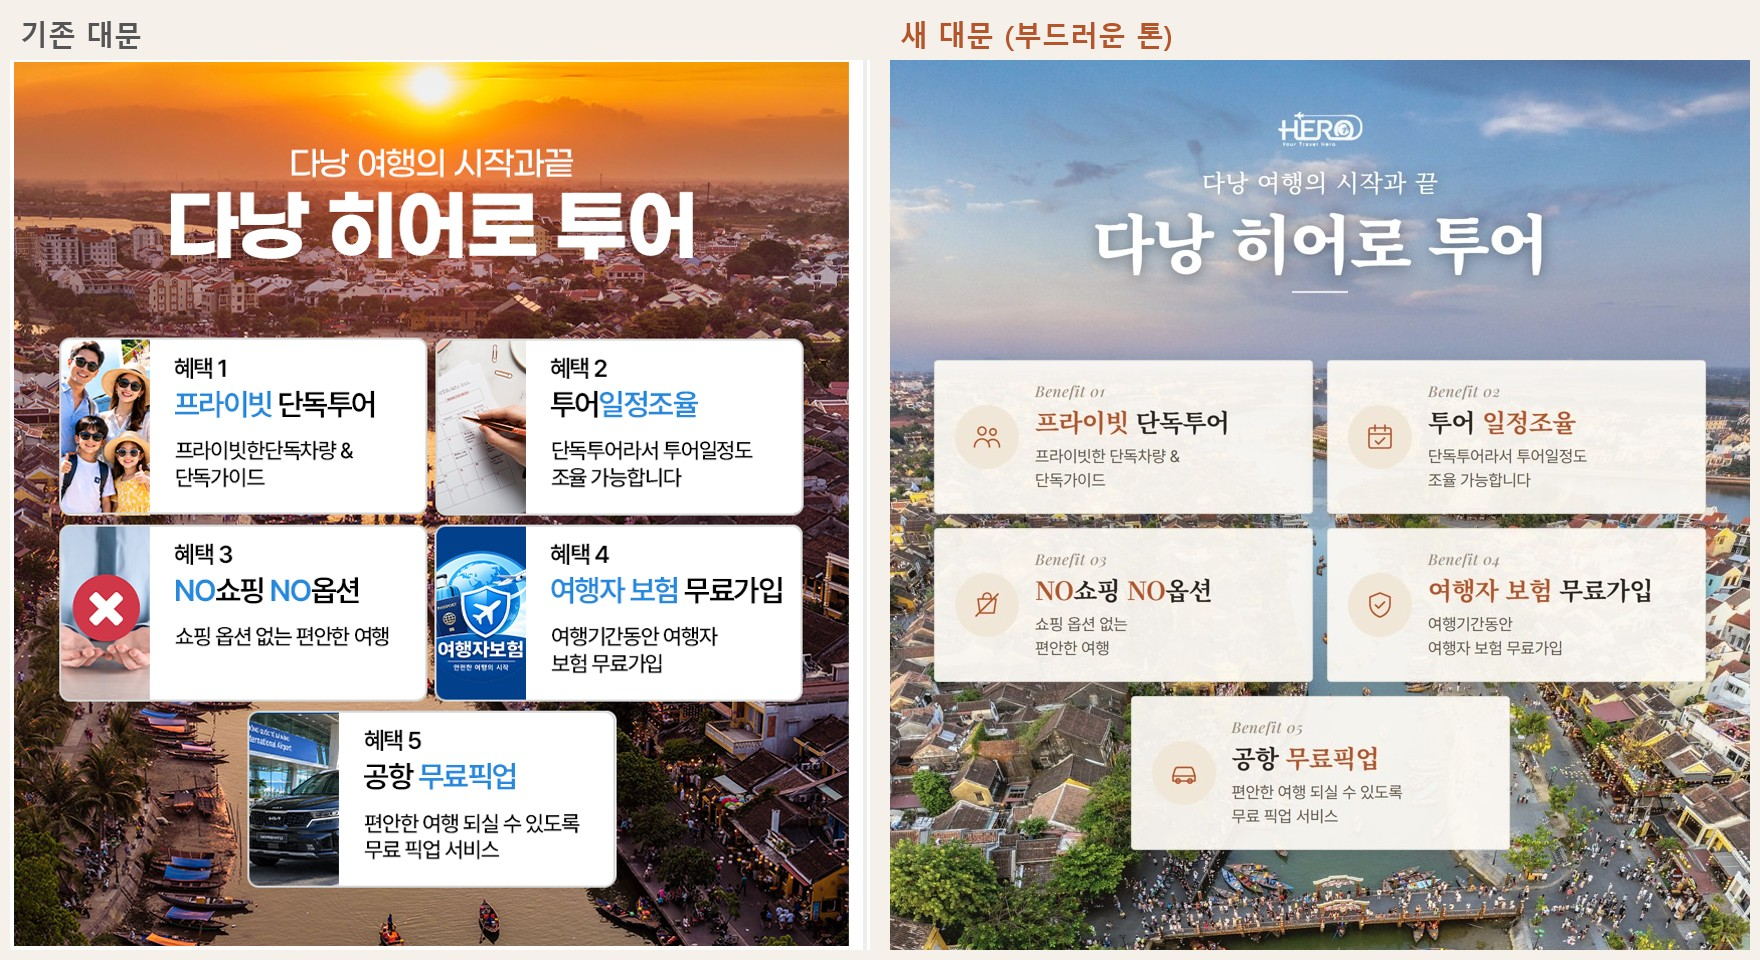
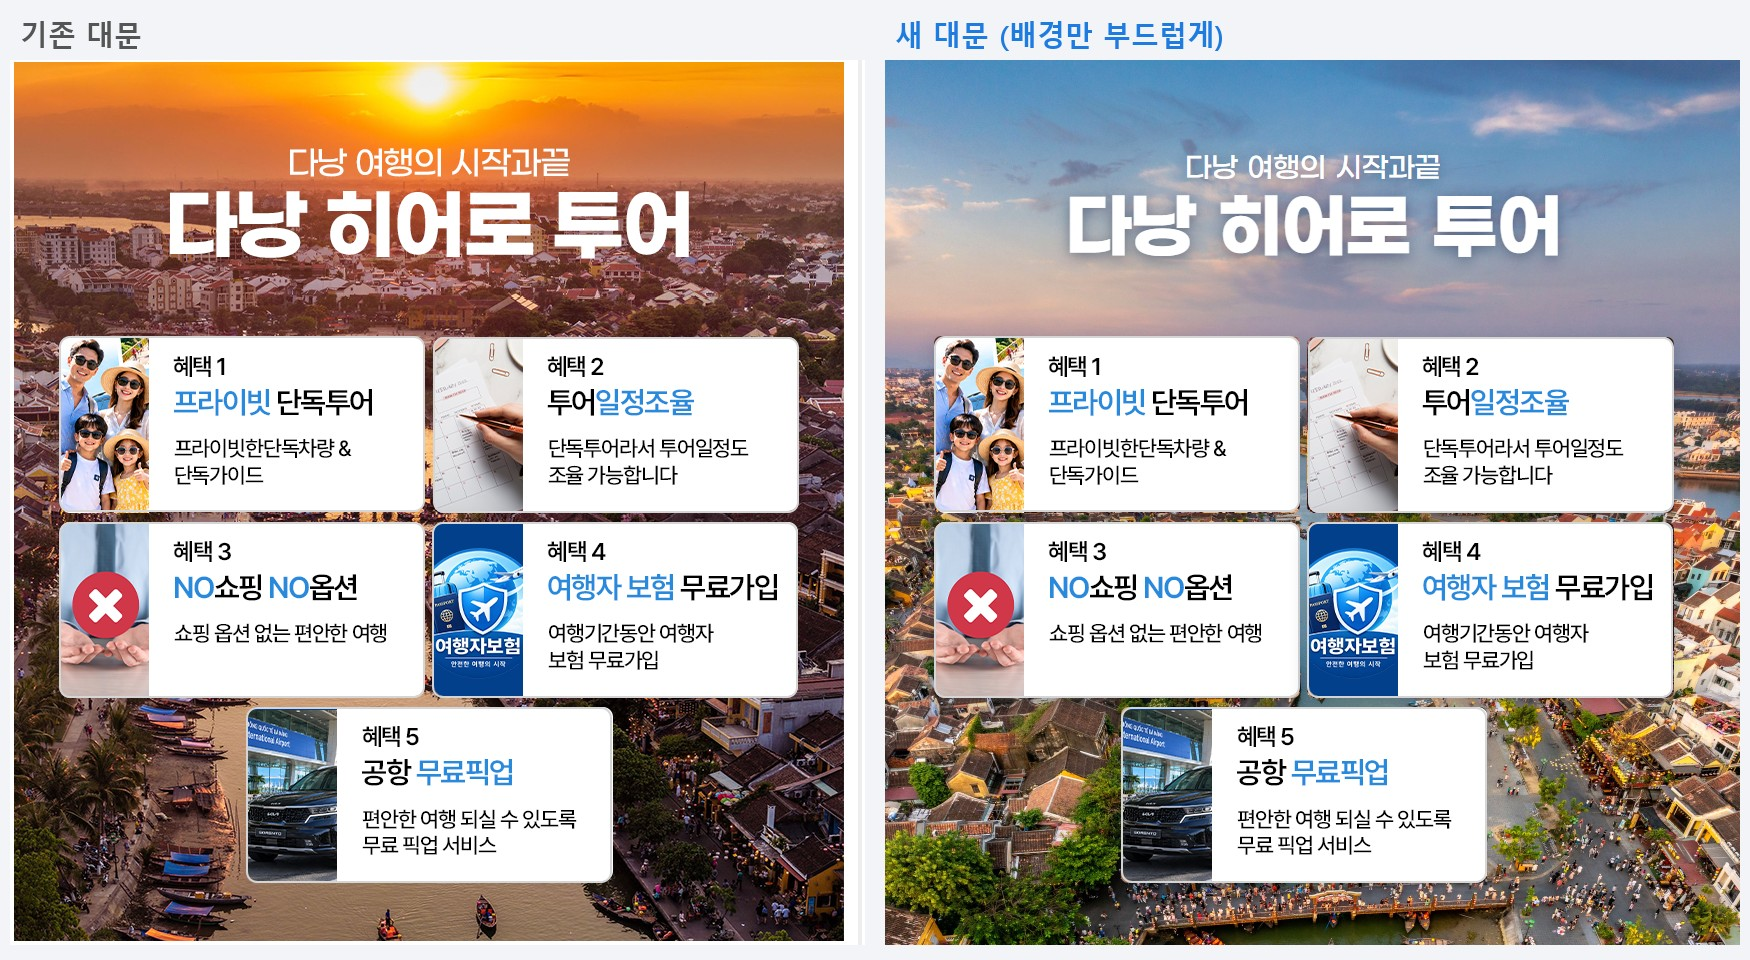
카페 대문: 기존 카페 메인 스타일 유지, 붉은 노을 배경만 은은한 호이안 항공뷰로 교체

diff --git a/gate/index.html b/gate/index.html
@@ -1,40 +1,23 @@
 <!doctype html><html lang="ko"><head><meta charset="utf-8"><meta name="viewport" content="width=860"><meta name="robots" content="noindex,nofollow"><title>히어로투어 카페 대문</title>
-<link rel="stylesheet" href="https://cdn.jsdelivr.net/gh/orioncactus/pretendard@v1.3.9/dist/web/variable/pretendardvariable.min.css">
-<link rel="stylesheet" href="https://fonts.googleapis.com/css2?family=Noto+Serif+KR:wght@500;700;900&family=Playfair+Display:ital,wght@0,700;1,500&display=swap">
 <style>
+@font-face{font-family:"GmarketSans";font-weight:700;src:url("https://cdn.jsdelivr.net/gh/projectnoonnu/noonfonts_2001@1.1/GmarketSansBold.woff") format("woff")}
+@font-face{font-family:"GmarketSans";font-weight:500;src:url("https://cdn.jsdelivr.net/gh/projectnoonnu/noonfonts_2001@1.1/GmarketSansMedium.woff") format("woff")}
 *{margin:0;padding:0;box-sizing:border-box}
 body{background:#fff}
-.gate{position:relative;width:860px;height:890px;overflow:hidden;font-family:"Pretendard Variable",Pretendard,sans-serif;color:#2B2620}
-.gate>.bg{position:absolute;inset:0;width:100%;height:100%;object-fit:cover}
-.gate::before{content:"";position:absolute;inset:0;background:linear-gradient(180deg,rgba(20,28,44,.30) 0%,rgba(20,28,44,.08) 30%,rgba(250,244,234,0) 45%,rgba(30,26,22,.10) 100%)}
-.top{position:relative;text-align:center;padding-top:52px;color:#fff;text-shadow:0 2px 14px rgba(15,22,40,.45)}
-.top .logo{height:34px;opacity:.95}
-.top .kick{margin-top:14px;font-family:"Noto Serif KR",serif;font-size:24px;font-weight:500;letter-spacing:.02em}
-.top h1{margin-top:6px;font-family:"Noto Serif KR",serif;font-size:64px;font-weight:900;letter-spacing:-.03em;line-height:1.1}
-.top .line{width:56px;height:1.5px;background:rgba(255,255,255,.8);margin:16px auto 0}
-.grid{position:absolute;left:44px;right:44px;top:300px;display:grid;grid-template-columns:1fr 1fr;gap:14px}
-.card{background:rgba(251,248,242,.95);border:1px solid rgba(43,38,32,.10);border-radius:4px;padding:20px 22px 20px 20px;display:grid;grid-template-columns:64px 1fr;gap:16px;align-items:center;box-shadow:0 8px 26px rgba(20,24,36,.16)}
-.card.c5{grid-column:1/3;width:calc(50% - 7px);justify-self:center}
-.ic{width:64px;height:64px;border-radius:50%;background:#F1E7D8;display:flex;align-items:center;justify-content:center}
-.ic svg{width:32px;height:32px;stroke:#B5552B;fill:none;stroke-width:1.6;stroke-linecap:round;stroke-linejoin:round}
-.no{font-family:"Playfair Display",serif;font-style:italic;font-size:15px;color:#9A8F80;letter-spacing:.04em}
-.card b{display:block;margin-top:2px;font-family:"Noto Serif KR",serif;font-size:25px;font-weight:700;letter-spacing:-.03em;color:#2B2620}
-.card b em{font-style:normal;color:#B5552B}
-.card p{margin-top:6px;font-size:16.5px;line-height:1.45;color:#5E554A;letter-spacing:-.01em}
+.gate{position:relative;width:855px;height:885px;overflow:hidden;font-family:"GmarketSans",sans-serif}
+.gate>.bg{position:absolute;inset:0;width:100%;height:100%;object-fit:cover;object-position:50% 0}
+.gate::before{content:"";position:absolute;inset:0;background:linear-gradient(180deg,rgba(18,40,80,.34) 0%,rgba(18,40,80,.16) 26%,rgba(18,40,80,0) 40%,rgba(10,20,40,.06) 100%)}
+.top{position:absolute;left:0;right:0;top:86px;text-align:center;color:#fff;text-shadow:0 3px 14px rgba(10,30,70,.45)}
+.top .kick{font-weight:500;font-size:28px;letter-spacing:-.02em}
+.top h1{margin-top:10px;font-weight:700;font-size:70px;letter-spacing:-.04em;line-height:1}
+.card{position:absolute;border-radius:7px;box-shadow:0 6px 18px rgba(10,30,60,.22)}
 </style></head><body style="margin:0 auto">
 <section class="gate">
 <img class="bg" src="img/gate_bg.jpg" alt="">
-<div class="top"><img class="logo" src="img/logo_white.png" alt="HERO"><div class="kick">다낭 여행의 시작과 끝</div><h1>다낭 히어로 투어</h1><div class="line"></div></div>
-<div class="grid">
- <div class="card"><div class="ic"><svg viewBox="0 0 32 32"><circle cx="11" cy="10" r="4"/><circle cx="22" cy="11" r="3.2"/><path d="M3.5 26c0-4.6 3.4-8 7.5-8s7.5 3.4 7.5 8"/><path d="M17 20.5c1.2-1.3 3-2.1 5-2.1 3.6 0 6.5 2.9 6.5 7.6"/></svg></div>
-  <div><span class="no">Benefit 01</span><b><em>프라이빗</em> 단독투어</b><p>프라이빗한 단독차량 &amp;<br>단독가이드</p></div></div>
- <div class="card"><div class="ic"><svg viewBox="0 0 32 32"><rect x="5" y="7" width="22" height="20" rx="2"/><path d="M5 13h22M11 4v6M21 4v6"/><path d="M11.5 20l3 3 6-6"/></svg></div>
-  <div><span class="no">Benefit 02</span><b>투어 <em>일정조율</em></b><p>단독투어라서 투어일정도<br>조율 가능합니다</p></div></div>
- <div class="card"><div class="ic"><svg viewBox="0 0 32 32"><path d="M7 10h18l-2 14H9z"/><path d="M12 10V8a4 4 0 0 1 8 0v2"/><path d="M5 27L27 5"/></svg></div>
-  <div><span class="no">Benefit 03</span><b><em>NO</em>쇼핑 <em>NO</em>옵션</b><p>쇼핑 옵션 없는<br>편안한 여행</p></div></div>
- <div class="card"><div class="ic"><svg viewBox="0 0 32 32"><path d="M16 4l10 4v7c0 6.5-4.3 11-10 13C10.3 26 6 21.5 6 15V8z"/><path d="M11.5 16l3 3 6-6"/></svg></div>
-  <div><span class="no">Benefit 04</span><b><em>여행자 보험</em> 무료가입</b><p>여행기간동안<br>여행자 보험 무료가입</p></div></div>
- <div class="card c5"><div class="ic"><svg viewBox="0 0 32 32"><path d="M5 19l2-6.5A3 3 0 0 1 9.9 10.4h12.2a3 3 0 0 1 2.9 2.1L27 19v5H5z"/><path d="M5 19h22"/><circle cx="10" cy="24" r="2.2"/><circle cx="22" cy="24" r="2.2"/></svg></div>
-  <div><span class="no">Benefit 05</span><b>공항 <em>무료픽업</em></b><p>편안한 여행 되실 수 있도록<br>무료 픽업 서비스</p></div></div>
-</div>
+<div class="top"><div class="kick">다낭 여행의 시작과끝</div><h1>다낭 히어로 투어</h1></div>
+<img class="card" src="img/c1.png" style="left:49px;top:276px;width:366px;height:177px" alt="">
+<img class="card" src="img/c2.png" style="left:422px;top:277px;width:367px;height:176px" alt="">
+<img class="card" src="img/c3.png" style="left:49px;top:462px;width:366px;height:176px" alt="">
+<img class="card" src="img/c4.png" style="left:422px;top:462px;width:367px;height:176px" alt="">
+<img class="card" src="img/c5.png" style="left:236px;top:647px;width:366px;height:176px" alt="">
 </section></body></html>

diff --git a/index.html b/index.html
@@ -178,9 +178,9 @@ footer{margin-top:36px;font-size:13px;color:var(--mute)}
     <article class="card">
       <a class="thumb" href="gate/herotour_gate_full.jpg" aria-label="카페 대문 보기"><img src="thumbs/gate.jpg" alt="카페 대문" loading="lazy" width="480" height="497"><span class="letter">대문</span></a>
       <div class="body">
-        <h2>카페 대문 · 부드러운 톤</h2>
-        <p>붉은 노을 대신 은은한 호이안 항공뷰, 혜택 5칸 문구는 기존 그대로</p>
-        <ul class="tags"><li>필름 매거진</li><li>고객 사진</li><li>860px</li></ul>
+        <h2>카페 대문 · 배경만 부드럽게</h2>
+        <p>기존 카페 메인 스타일 그대로, 붉은 노을 배경만 은은한 호이안 항공뷰로</p>
+        <ul class="tags"><li>카페 메인 스타일</li><li>고객 사진</li><li>855×885</li></ul>
         <div class="actions"><a class="btn primary" href="gate/herotour_gate_full.jpg">대문 이미지</a><a class="btn" href="gate/gate_compare.jpg">기존과 비교</a></div>
       </div>
     </article>
